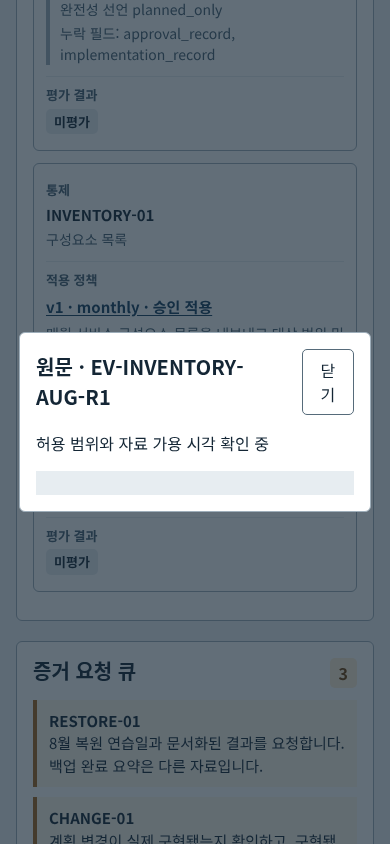
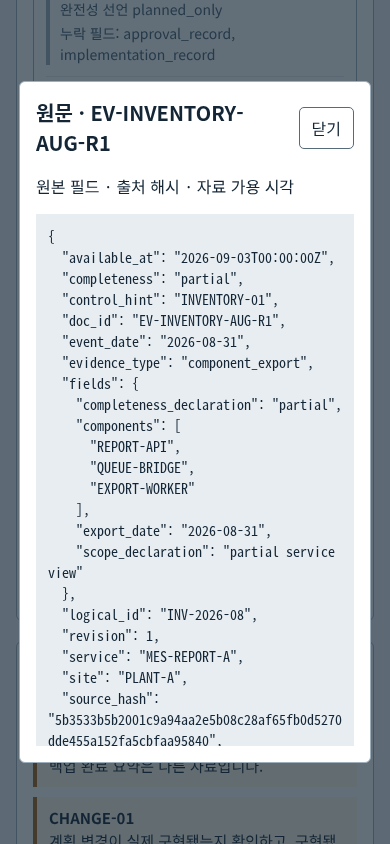
Wait for loaded mobile source before publishing screenshot

diff --git a/static/style.css b/static/style.css
@@ -183,6 +183,7 @@ td::before {
   background: white;
   color: #142635;
 }
+.dialog-head button { white-space: nowrap; flex-shrink: 0; }
 dialog {
   width: min(790px, calc(100vw - 32px));
   max-height: 86vh;

diff --git a/scripts/recapture_mobile_source.py b/scripts/recapture_mobile_source.py
@@ -1,0 +1,72 @@
+"""Narrow live-browser recapture after the source body and hash have loaded."""
+import hashlib
+import json
+import sys
+import threading
+from pathlib import Path
+
+ROOT = Path(__file__).resolve().parents[1]
+sys.path.insert(0, str(ROOT))
+from audit_desk.core import CUTOFFS, Desk
+from audit_desk.server import make_server
+
+OUT = ROOT / "artifacts" / "demo"
+DOC_ID = "EV-INVENTORY-AUG-R1"
+
+
+def main():
+    from playwright.sync_api import sync_playwright
+
+    desk = Desk()
+    expected = desk.source("planner_a", "MES-REPORT-A", "2026-08", CUTOFFS[0], DOC_ID)
+    server = make_server(port=0, desk=desk)
+    thread = threading.Thread(target=server.serve_forever, daemon=True)
+    thread.start()
+    try:
+        with sync_playwright() as playwright:
+            browser = playwright.chromium.launch(
+                executable_path="/usr/bin/google-chrome", headless=True,
+                args=["--disable-gpu"])
+            context = browser.new_context(
+                viewport={"width": 390, "height": 844},
+                device_scale_factor=1, is_mobile=True, has_touch=True)
+            page = context.new_page()
+            page.goto("http://127.0.0.1:" + str(server.server_port),
+                      wait_until="domcontentloaded")
+            page.locator("#matrixBody tr").first.wait_for()
+            page.get_by_role("button", name=DOC_ID).click()
+            page.locator("#sourceDialog[open]").wait_for()
+            page.wait_for_function("""({id, hash}) => {
+              const body = document.querySelector('#sourceText')?.textContent || '';
+              return body.includes(id) && body.includes(hash);
+            }""", arg={"id": DOC_ID, "hash": expected["source_hash"]})
+            displayed = json.loads(page.locator("#sourceText").inner_text())
+            assert displayed["doc_id"] == DOC_ID
+            assert displayed["source_hash"] == expected["source_hash"]
+            assert displayed["text"] == expected["text"] and displayed["text"]
+            assert page.evaluate("document.documentElement.scrollWidth <= window.innerWidth + 1")
+            path = OUT / "09-mobile-source.png"
+            page.screenshot(path=str(path))
+            receipt = {
+                "capture": "actual live Chrome 390px source dialog after body loaded",
+                "doc_id": DOC_ID,
+                "source_hash": expected["source_hash"],
+                "exact_body_match": True,
+                "screen_width": 390,
+                "screenshot": path.name,
+                "screenshot_sha256": hashlib.sha256(path.read_bytes()).hexdigest(),
+            }
+            (OUT / "mobile-source-check.json").write_text(
+                json.dumps(receipt, ensure_ascii=False, indent=2) + "\n",
+                encoding="utf-8")
+            print(json.dumps(receipt, ensure_ascii=False))
+            context.close()
+            browser.close()
+    finally:
+        server.shutdown()
+        server.server_close()
+        thread.join(timeout=2)
+
+
+if __name__ == "__main__":
+    main()

diff --git a/scripts/capture_demo.py b/scripts/capture_demo.py
@@ -136,6 +136,10 @@ def capture():
             phone.screenshot(path=str(OUT / "08-mobile-390-matrix.png"), full_page=True)
             phone.get_by_role("button", name="EV-INVENTORY-AUG-R1").click()
             phone.locator("#sourceDialog[open]").wait_for()
+            phone.wait_for_function("""() => {
+              const body = document.querySelector('#sourceText')?.textContent || '';
+              return body.includes('EV-INVENTORY-AUG-R1') && body.includes('source_hash');
+            }""")
             phone.screenshot(path=str(OUT / "09-mobile-source.png"))
             checks.append("390px mobile matrix/source: no document overflow")
             mobile.close()

diff --git a/scripts/write_demo_provenance.py b/scripts/write_demo_provenance.py
@@ -14,6 +14,9 @@ receipt = {
     "model_calls": 0,
     "browser_check_count": len(checks["checks"]),
     "browser_checks": checks["checks"],
+    "supplemental_mobile_source_check": json.loads(
+        (demo / "mobile-source-check.json").read_text())
+        if (demo / "mobile-source-check.json").exists() else None,
     "media": [
         {"path": str(path.relative_to(root)).replace("\\", "/"),
          "size_bytes": path.stat().st_size,

diff --git a/README.md b/README.md
@@ -35,7 +35,7 @@ The approved ACCESS-01 v2 starts **1 September** and draft v3 does not govern Au
 
 ## 실제 실행 화면
 
-아래 화면은 고정한 가상 자료로 loopback 앱을 실제 Chrome에서 실행해 캡처했습니다. 합성 성공 화면이나 보정 이미지는 아닙니다. [작동 영상](artifacts/demo/workflow.mp4)은 같은 브라우저 실행을 기록합니다. 캡처 검사와 파일 해시는 [증거 명세](artifacts/demo/provenance.json)에 있습니다. 현재 UI는 [P09 v2 개발 화면](https://github.com/Kimhyuntae9665/maintenance-job-plan-draft-review/blob/main/artifacts/media/v2-development-stored-desktop.png)의 색상·타이포·두 패널 구성을 기준으로 정리했습니다.
+아래 화면은 고정한 가상 자료로 loopback 앱을 실제 Chrome에서 실행해 캡처했습니다. 합성 성공 화면이나 보정 이미지는 아닙니다. [작동 영상](artifacts/demo/workflow.mp4)은 같은 브라우저 실행을 기록합니다. 모바일 원문 사진은 [ID·해시·본문 표시를 확인한 별도 재촬영](artifacts/demo/mobile-source-check.json)입니다. 캡처 검사와 파일 해시는 [증거 명세](artifacts/demo/provenance.json)에 있습니다. 현재 UI는 [P09 v2 개발 화면](https://github.com/Kimhyuntae9665/maintenance-job-plan-draft-review/blob/main/artifacts/media/v2-development-stored-desktop.png)의 색상·타이포·두 패널 구성을 기준으로 정리했습니다.
 
 | 업무 순서 | 실제 화면 |
 |---|---|
